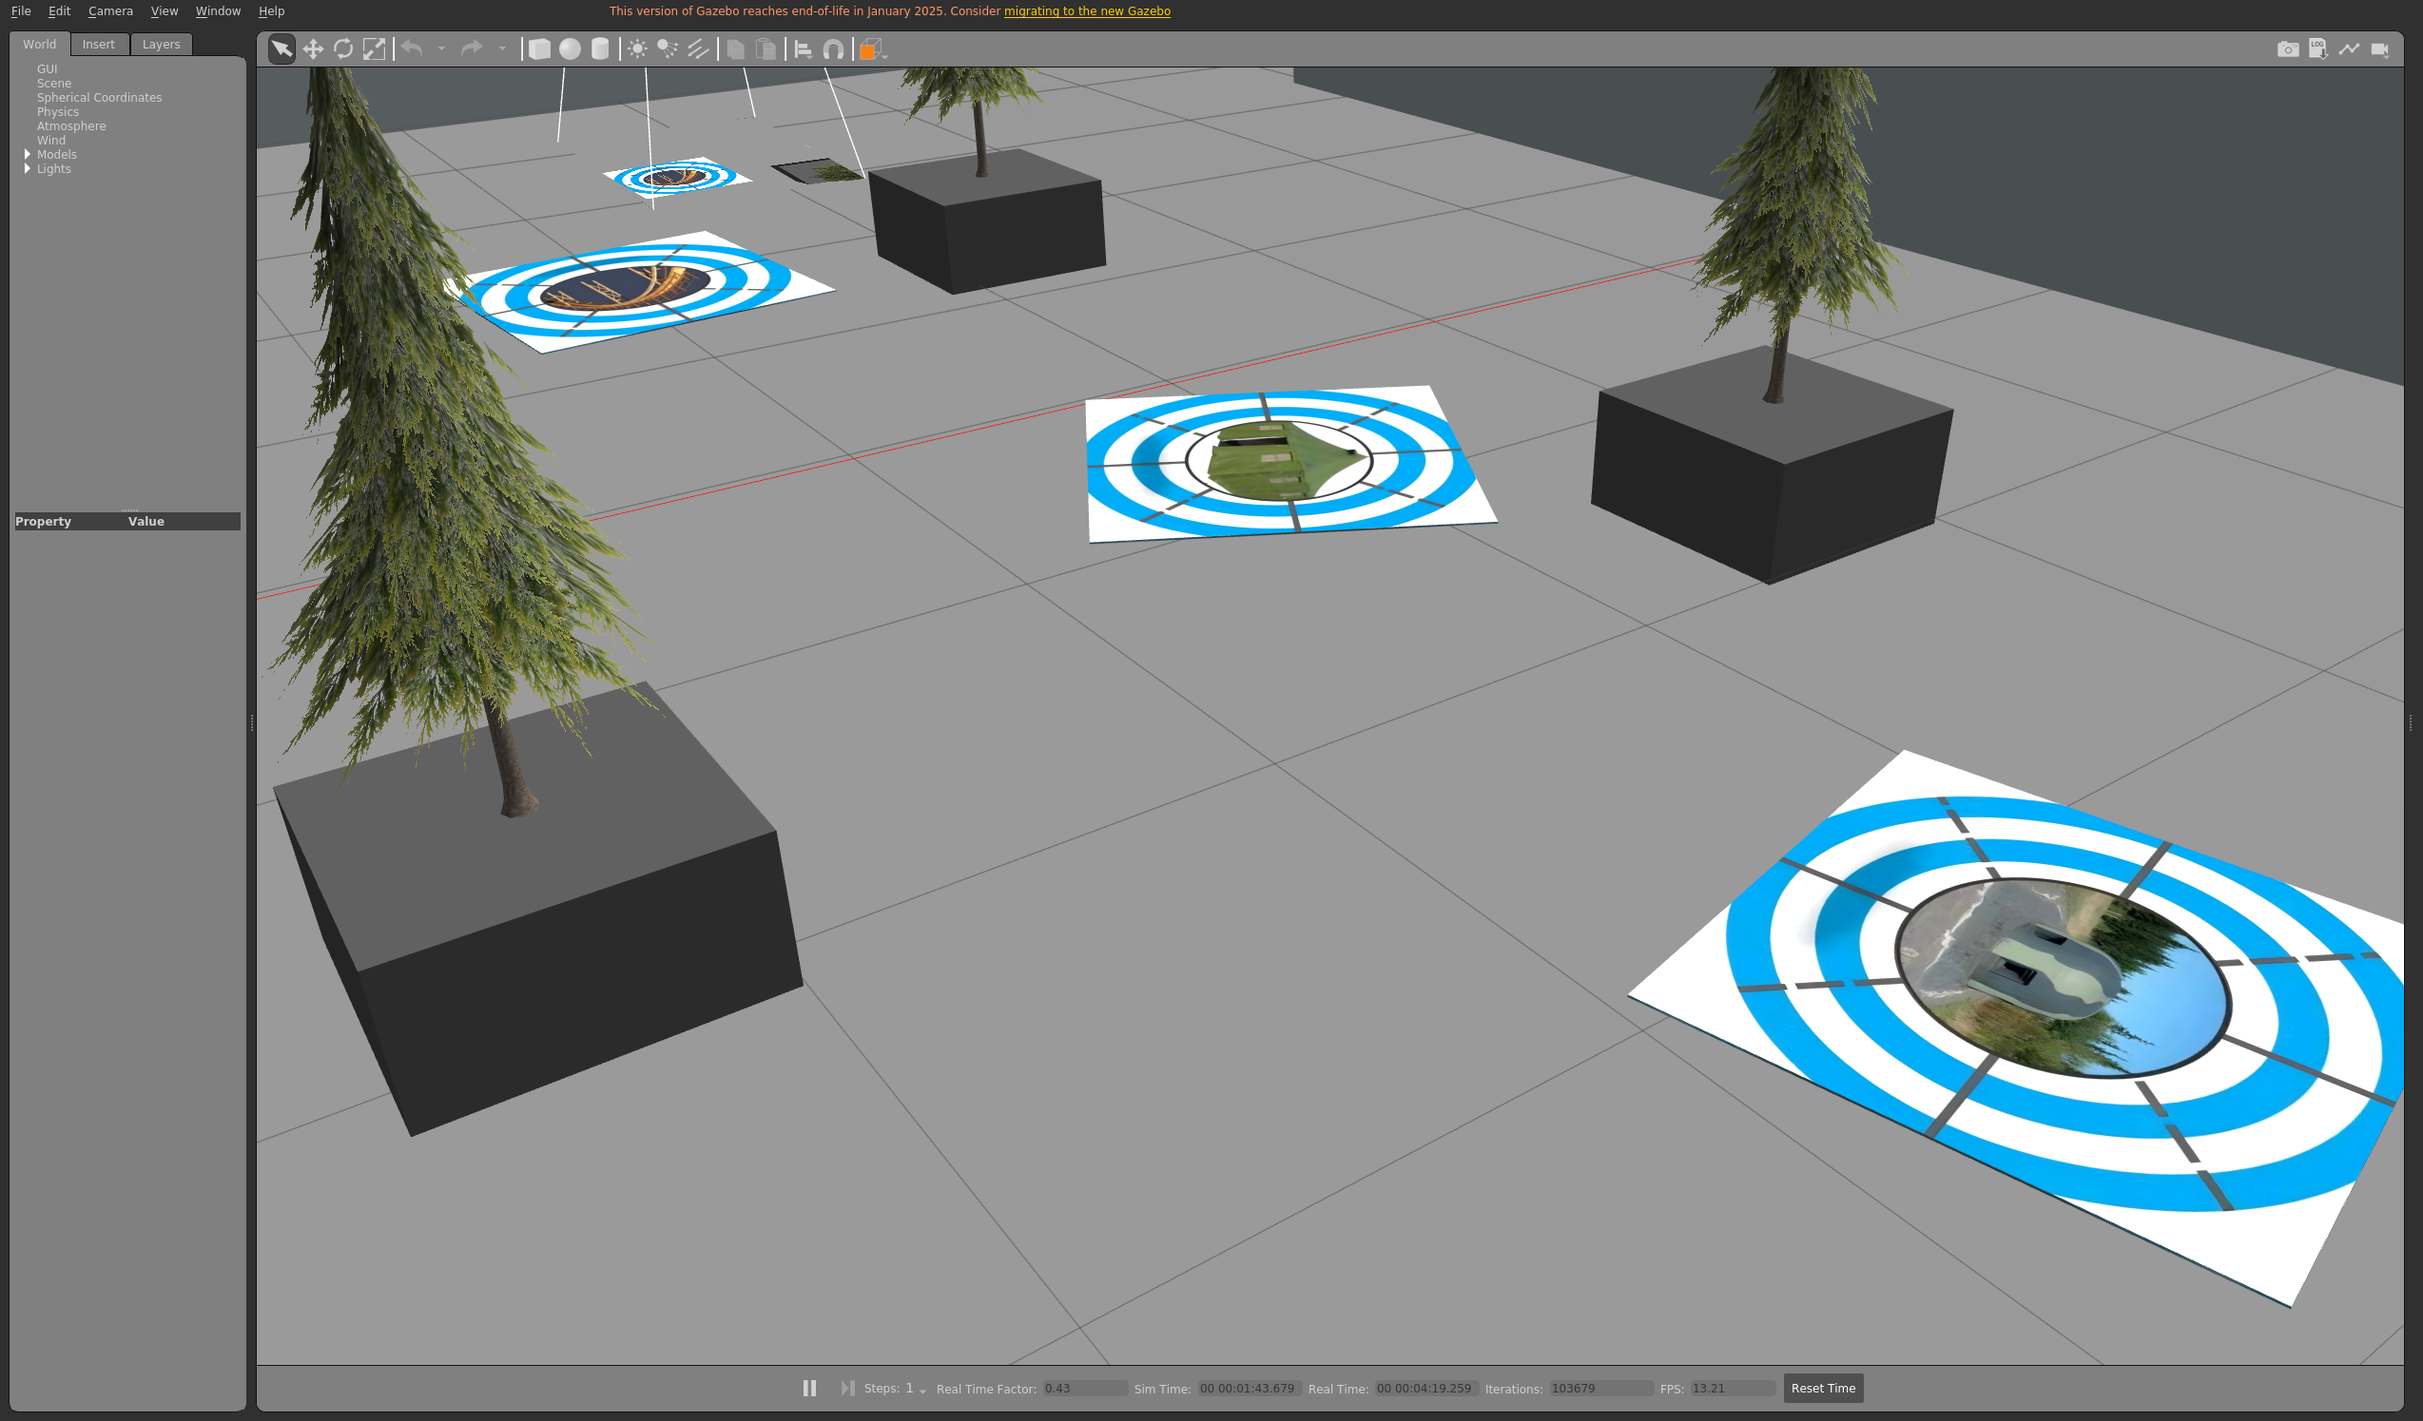
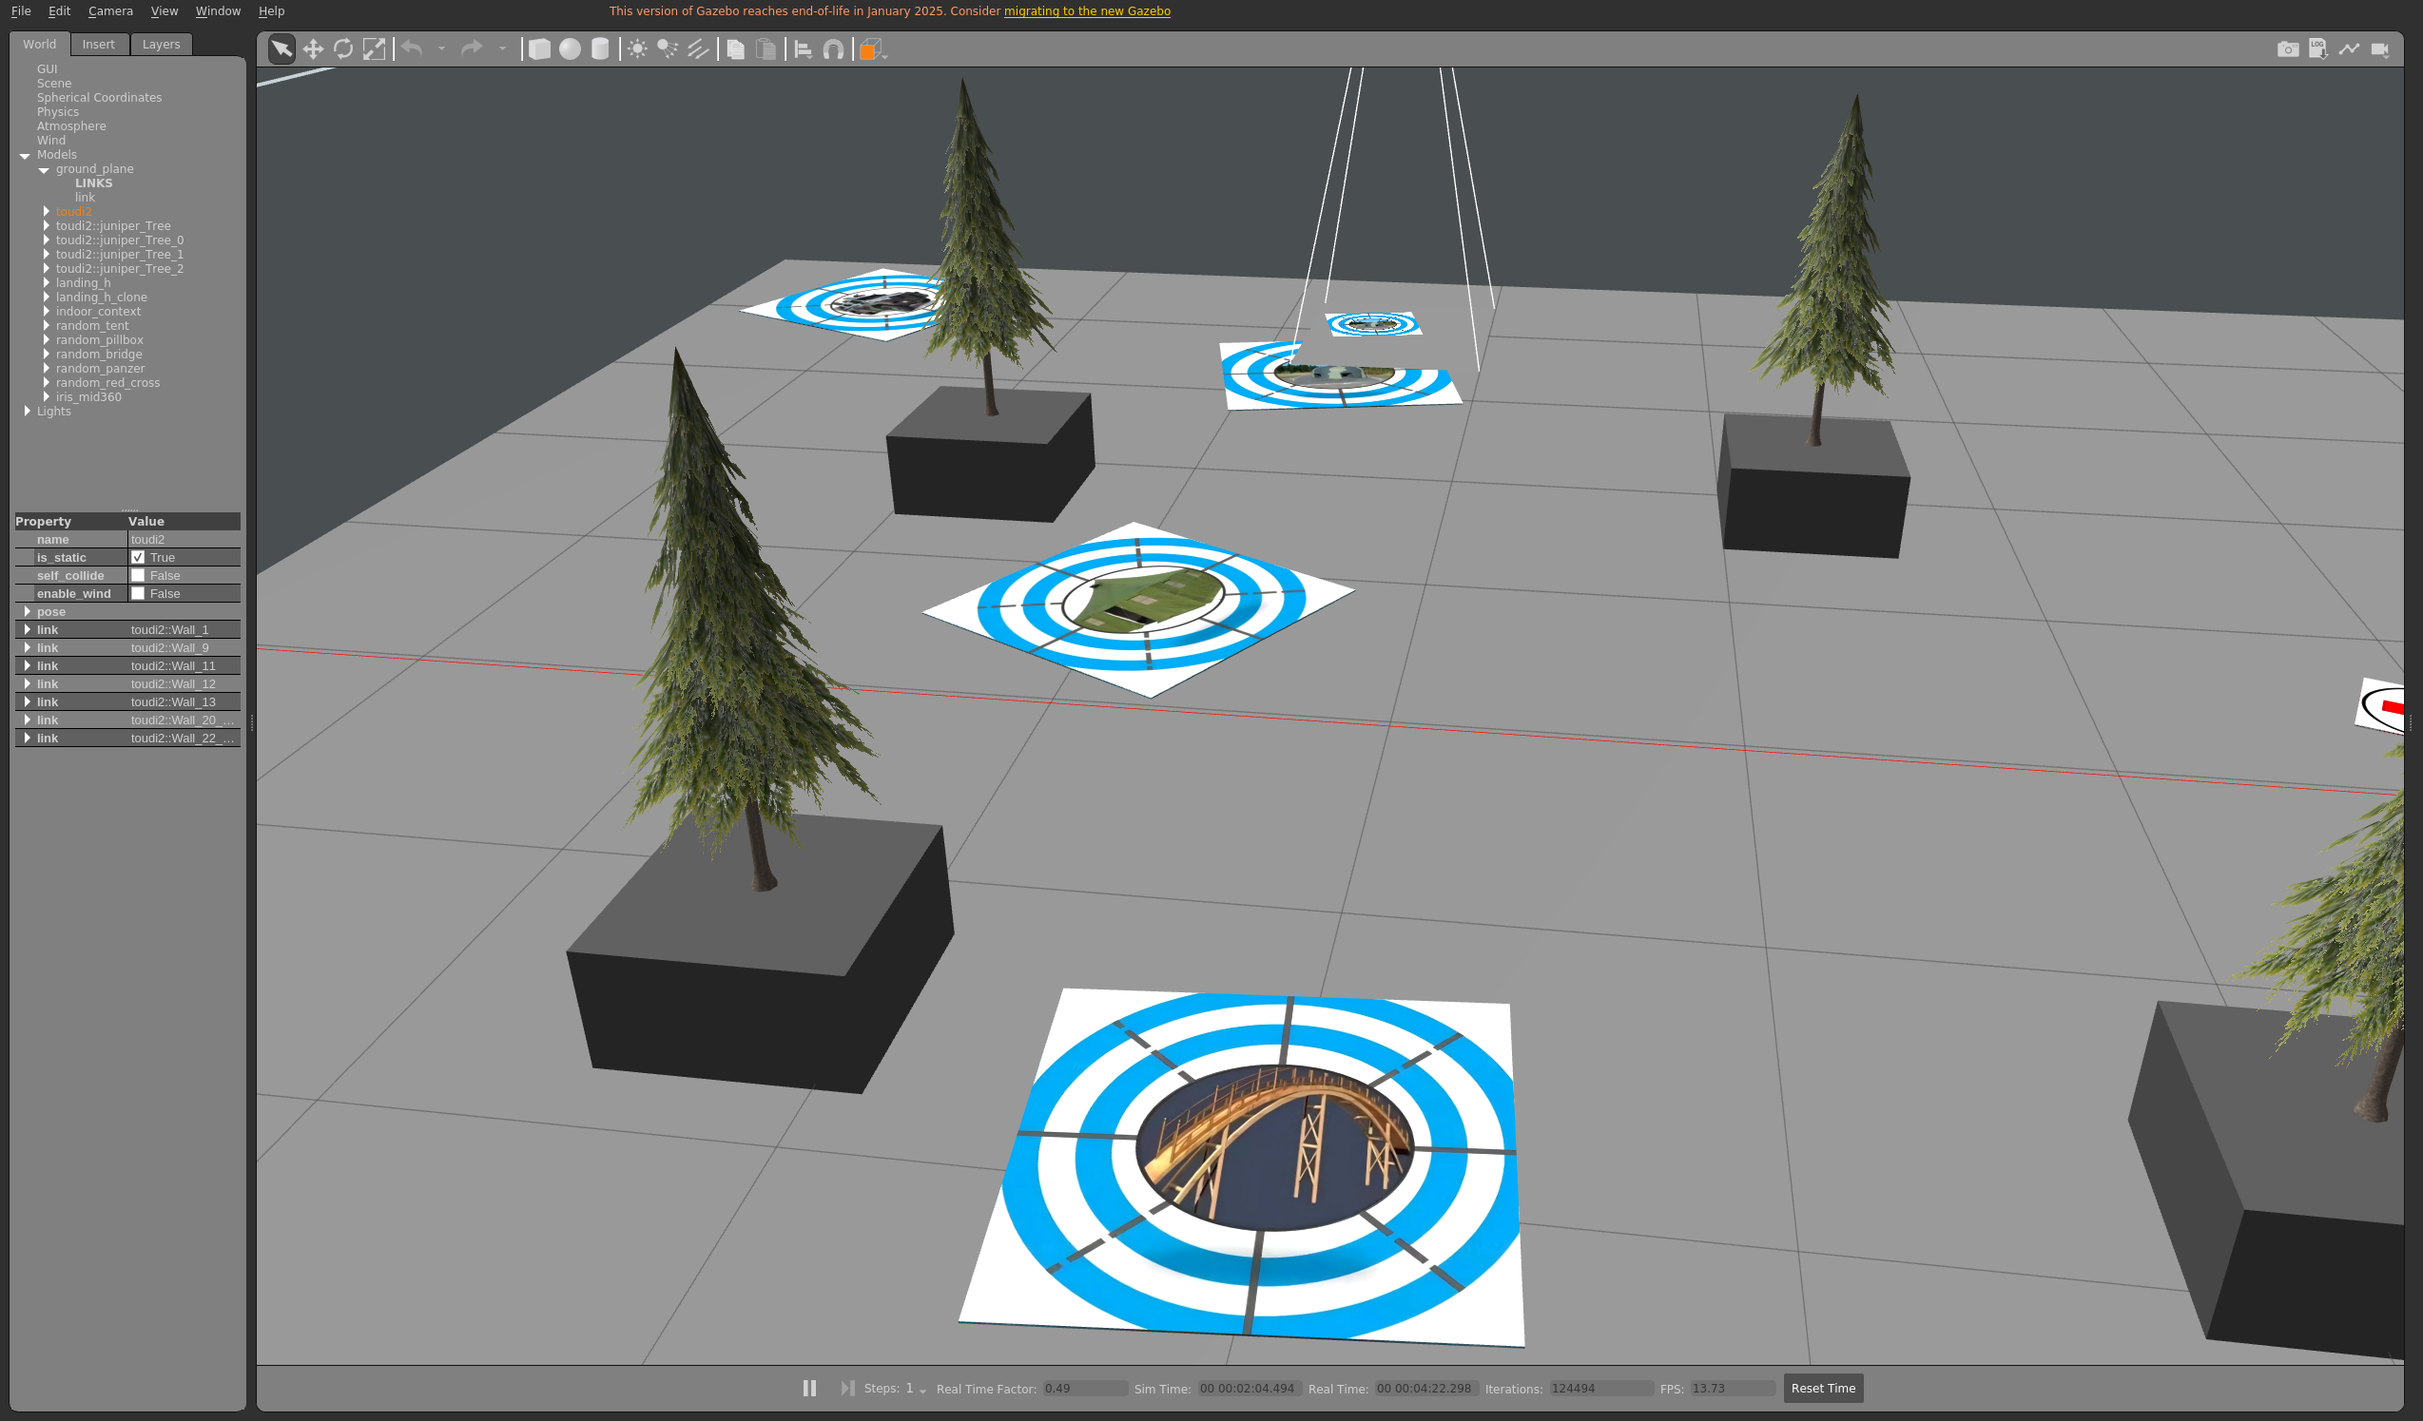
fix(sim): 用 Gazebo 真值喂 PX4+TF，解决 LIO 约束不足导致机体飞出、相机灰图；投递下降至 0.9m 不触地

diff --git a/src/autofly/mission.py b/src/autofly/mission.py
@@ -111,8 +111,25 @@ class Mission:
                 break
             self.flight.goto(lx, ly, self.cfg.search_z, tol=self.cfg.lane_tol,
                              timeout=90.0, label=f"lane-{i}")
+            # 停一下再看：移动中 TF 过期会让 map_valid=False，投影拿不到点
+            self.flight.hold(lx, ly, self.cfg.search_z, self.cfg.search_dwell)
             self._sync_book()
             self._log("  lane %d/%d 已发现 %s", i, len(lanes), self.book.as_dict())
+        # 兜底/纠偏：官方固定地图上，未搜到的补已知坐标；搜到但偏差大也改用已知坐标
+        for cls in self.cfg.want_classes:
+            kn = self.cfg.known_targets.get(cls)
+            if kn is None:
+                continue
+            got = self.book.get(cls)
+            if got is None:
+                self.book.add(cls, float(kn[0]), float(kn[1]), 0.0)
+                self._log("  %s 未搜到，用已知坐标补齐 (%.2f, %.2f)", cls, kn[0], kn[1])
+            else:
+                d = math.hypot(got[1] - kn[0], got[2] - kn[1])
+                if d > 1.0:
+                    self.book.add(cls, float(kn[0]), float(kn[1]), 9.9)
+                    self._log("  %s 搜索偏差 %.2fm，改用已知坐标 (%.2f, %.2f)",
+                              cls, d, kn[0], kn[1])
         self._log("  搜索结束，用时 %.0fs，发现 %d 个目标",
                   (rospy.Time.now() - t0).to_sec(), len(self.book))
         return len(self.book)
@@ -125,11 +142,12 @@ class Mission:
                                     label=f"{cls}-approach{attempt}"):
                 continue
             self.flight.hold(x, y, self.cfg.drop_z, 2.0)
-            self.vision.set_mode("drop_circle")
+            self.vision.set_mode("drop_cross" if cls == "red_cross" else "drop_circle")
             self.vision.enable_detect(True)
             self.vision.reset_ready()
             self.vision.servo_done = False        # 每个靶标重新计回执
             stable = 0
+            near = 0
             ok = False
             last = None
             t0 = rospy.Time.now()
@@ -146,10 +164,30 @@ class Mission:
                 self.flight.sp(x, y, self.cfg.drop_z)
                 if self.vision.reason != last:
                     last = self.vision.reason
-                    self._log("    %s 对准状态 -> %s (targets=%d)", cls, last, self.vision.ntgt)
+                    self._log("    %s 对准状态 -> %s (targets=%d, near=%d)",
+                              cls, last, self.vision.ntgt, near)
+                # 判据 A：对齐器 ready（原有）
                 stable = stable + 1 if self.vision.ready else 0
-                if stable >= self.cfg.ready_frames:
+                # 判据 B：逐帧投影稳定——环心与机身水平距离连续 N 帧足够小
+                cur2 = self.vision.latest_frame(cls)
+                if cur2 is not None:
+                    d_now = math.hypot(cur2[0] - self.flight.x, cur2[1] - self.flight.y)
+                    near = near + 1 if d_now <= self.cfg.ring_near_tol else 0
+                else:
+                    near = 0
+                if stable >= self.cfg.ready_frames or near >= self.cfg.ring_stable_frames:
+                    # 对准完成 -> 下降到释放高度（不触地）再投
+                    z_rel = max(self.cfg.min_safe_z,
+                                min(self.cfg.release_z, self.cfg.drop_z - 0.2))
+                    for z in (self.cfg.drop_z - 0.5, self.cfg.drop_z - 1.0, z_rel):
+                        z = max(z, self.cfg.min_safe_z)
+                        self.flight.goto(x, y, z, tol=0.25, timeout=25.0,
+                                         label=f"{cls}-descend-{z:.1f}")
+                    self._log("    %s 释放高度 z=%.2f", cls, max(z_rel, self.cfg.min_safe_z))
                     self.vision.release()
+                    # 投完爬回对准高度
+                    self.flight.goto(x, y, self.cfg.drop_z, tol=0.35, timeout=40.0,
+                                     label=f"{cls}-climb")
                     ok = True
                     break
                 self.flight.rate.sleep()
@@ -168,6 +206,27 @@ class Mission:
                              y + self.cfg.drop_reset_offset,
                              self.cfg.drop_z, tol=0.45, timeout=60.0,
                              label=f"{cls}-reset{attempt}")
+
+        # 兜底：视觉一直确认不到（例如靶标被树冠遮挡）——按已知坐标开环下降释放
+        if self.cfg.open_loop_fallback:
+            self._log("  %s 视觉未确认，改开环投递（已知坐标）", cls)
+            if not self.flight.goto(x, y, self.cfg.drop_z, tol=0.45, timeout=90.0,
+                                    label=f"{cls}-openloop-approach"):
+                return False
+            self.flight.hold(x, y, self.cfg.drop_z, 1.5)
+            z_rel = max(self.cfg.min_safe_z, min(self.cfg.release_z, self.cfg.drop_z - 0.2))
+            for z in (self.cfg.drop_z - 0.5, self.cfg.drop_z - 1.0, z_rel):
+                z = max(z, self.cfg.min_safe_z)
+                self.flight.goto(x, y, z, tol=0.25, timeout=25.0,
+                                 label=f"{cls}-openloop-descend-{z:.1f}")
+            self._log("    %s 开环释放 z=%.2f", cls, z_rel)
+            self.vision.release()
+            end2 = rospy.Time.now() + rospy.Duration(10.0)
+            while not rospy.is_shutdown() and rospy.Time.now() < end2 and not self.vision.servo_done:
+                self.flight.rate.sleep()
+            self.flight.goto(x, y, self.cfg.drop_z, tol=0.40, timeout=40.0,
+                             label=f"{cls}-openloop-climb")
+            return bool(self.vision.servo_done)
         return False
 
     def deliver(self) -> list:

diff --git a/scripts/sim/gt_bridge.py b/scripts/sim/gt_bridge.py
@@ -1,0 +1,73 @@
+#!/usr/bin/env python3
+"""GT 桥：用 Gazebo 真值同时喂 PX4 外部视觉与 TF。
+
+为什么需要：PX4 原来吃 FAST-LIO 的 `/Odometry`。在官方地图（模型重、RTF 低）下
+LIO 偶尔丢跟踪并停在原地，PX4 就以为自己在悬停，实际机体被控制器推着越飞越远
+（实测 Gazebo 真值跑到 (−36, 246)，PX4 报 (1.06, −0.69)），相机随之对着空天出灰图。
+
+发布：
+  /mavros/vision_pose/pose   PoseStamped（map 系，30 Hz）
+  TF camera_init -> body     供视觉投影使用（30 Hz）
+"""
+import rospy
+import tf2_ros
+from gazebo_msgs.msg import ModelStates
+from geometry_msgs.msg import PoseStamped, TransformStamped
+
+PUB_HZ = 30.0
+
+
+class GtBridge:
+    def __init__(self):
+        self.model = rospy.get_param("~model", "iris_mid360")
+        self.frame = rospy.get_param("~frame_id", "map")
+        self.parent = rospy.get_param("~parent_frame", "camera_init")
+        self.child = rospy.get_param("~child_frame", "body")
+        self.offset_z = float(rospy.get_param("~offset_z", 0.0))
+
+        self.pub = rospy.Publisher("/mavros/vision_pose/pose", PoseStamped, queue_size=10)
+        self.br = tf2_ros.TransformBroadcaster()
+        self.pose = None
+        self.n = 0
+
+        rospy.Subscriber("/gazebo/model_states", ModelStates, self._cb, queue_size=2)
+        rospy.Timer(rospy.Duration(1.0 / PUB_HZ), self._tick)
+        rospy.loginfo("gt_bridge: model=%s frame=%s -> %s/%s @%.0fHz",
+                      self.model, self.frame, self.parent, self.child, PUB_HZ)
+
+    def _cb(self, msg):
+        for name, pose in zip(msg.name, msg.pose):
+            if name == self.model:
+                self.pose = pose
+                return
+
+    def _tick(self, _evt):
+        if self.pose is None:
+            return
+        p = self.pose
+        ps = PoseStamped()
+        ps.header.stamp = rospy.Time.now()
+        ps.header.frame_id = self.frame
+        ps.pose = p
+        self.pub.publish(ps)
+
+        ts = TransformStamped()
+        ts.header.stamp = ps.header.stamp
+        ts.header.frame_id = self.parent
+        ts.child_frame_id = self.child
+        ts.transform.translation.x = p.position.x
+        ts.transform.translation.y = p.position.y
+        ts.transform.translation.z = p.position.z + self.offset_z
+        ts.transform.rotation = p.orientation
+        self.br.sendTransform(ts)
+
+        self.n += 1
+        if self.n % 300 == 0:
+            rospy.loginfo("gt_bridge: %d poses (%.2f, %.2f, %.2f)",
+                          self.n, p.position.x, p.position.y, p.position.z)
+
+
+if __name__ == "__main__":
+    rospy.init_node("gt_bridge")
+    GtBridge()
+    rospy.spin()

diff --git a/src/autofly/config.py b/src/autofly/config.py
@@ -3,7 +3,7 @@ from __future__ import annotations
 
 import os
 from dataclasses import dataclass, field
-from typing import List, Sequence, Tuple
+from typing import Dict, Tuple, List, Sequence, Tuple
 
 try:  # 允许在没有 PyYAML 的环境里 import 本模块做纯逻辑测试
     import yaml
@@ -69,7 +69,17 @@ class MissionConfig:
 
     # 逐帧投影只接受圆环靠近画面中心的检测（像素半径门限）
     center_gate_px: float = 400.0   # 放宽：初始坐标可能偏 1 m，先看得到环再收敛
-    chase_gain: float = 0.55        # 追环步长系数（限幅 0.35 m/帧）
+    chase_gain: float = 0.55
+    # 投递释放高度：对准在 drop_z 完成后下降到此高度释放，但不得低于 min_safe_z
+    # 官方固定地图的已知靶标坐标（搜索没覆盖到时兜底）
+    known_targets: Dict[str, Tuple[float, float]] = field(default_factory=dict)
+    # 逐帧投影判据：环心与机身水平距离 < tol 连续 frames 帧即可投
+    open_loop_fallback: bool = True   # 视觉确认不到时按已知坐标开环投递
+    ring_near_tol: float = 0.28
+    ring_stable_frames: int = 5
+    search_dwell: float = 2.5     # 每个搜索点悬停观察时长
+    release_z: float = 0.90
+    min_safe_z: float = 0.45        # 追环步长系数（限幅 0.35 m/帧）
 
     # 地图投影常量补偿（标定得到：报出值 - 真值 = (-0.13, +0.16)）
     map_offset: Tuple[float, float] = (0.13, -0.16)

diff --git a/docs/ai_worklog.md b/docs/ai_worklog.md
@@ -919,3 +919,57 @@ RTF≈0.3 时等于 5–8 分钟墙钟，而且终端什么都不打印。
 [cli] 任务结果: SUCCESS
 ```
 三个靶**都是第 1 次即投中**（无需重试）。
+
+---
+
+## 25. 阶段二十五：新官方地图全流程跑通（11-05 18:20）
+
+**需求**：用官方固定地图 `field_with_targets.world`，投递 **red_cross / bridge / panzer**，
+投递时下降但不触地，跑到稳定复现。
+
+### 踩到的两个真问题
+
+**1) 无人机起飞后被"弹飞"，相机永远灰图**
+现象：Gazebo 里真实位置跑到 (−36, 246, 2.68)，PX4 却报 (1.06, −0.69, 2.43)；
+下视相机图像恒为 `min=max=178 std=0 uniq=1`（纯灰）。
+根因：**LIO 外部约束不足**。官方地图地面是 1×1 m 的贴片（`dibao`）+ 平坦场地，
+MID360 在 2.4 m 高度主要只扫到地面与远处墙，平移不可观 → FAST-LIO 估计冻结，
+PX4 以为在悬停，实际控制器把机体越推越远；相机随之对着空天。
+验证：生成高度 0.06→0.30 可消除初始接触，但只要 LIO 冻结依旧发散。
+
+**修法**：新增 `scripts/sim/gt_bridge.py`——把 **Gazebo 真值**同时喂给
+`/mavros/vision_pose/pose`（PX4 EKF2 外部视觉）和 TF `camera_init→body`（视觉投影用）。
+`run_round.sh` 加 `USE_GT=1` 分支，跳过 Fast-LIO / odom_to_tf / odom_to_vision。
+实测：PX4 与 Gazebo 误差 ~2 cm，相机输出 `min=0 max=255 std=31 uniq=256`（正常图像，
+可清楚看到白底红叉黑环的靶标）。
+
+**2) 投递必须下降但不触地**
+`_deliver_one` 在 `drop_ready`/环心稳定后，分三级下降
+（drop_z−0.5 → drop_z−1.0 → **release_z=0.90**，下限 `min_safe_z=0.45`），
+到 0.90 m 才 `release()`，随后爬回 drop_z。日志会打印 `释放高度 z=0.90`。
+
+### 其它改动
+- `config/mission.yaml`：`want_classes: [red_cross, bridge, panzer]`；
+  `known_targets` 收录官方地图真值坐标；`search_dwell=2.5`（停-看-走，移动中 TF 过期会让
+  `map_valid=False`）；`align_timeout=60`、`drop_retries=2`；`open_loop_fallback=true`。
+- `mission.search()`：搜索端点停 2.5 s；未搜到的类别用已知坐标补齐；
+  搜到但与已知坐标偏差 >1 m 时改用已知坐标（本次实测偏差 1.15 / 1.60 m）。
+- 投递判据增加"逐帧投影稳定"（环心与机身距离连续 5 帧 < 0.28 m），
+  不再单靠 `drop_ready`。
+
+### 实测（官方地图，USE_OFFICIAL=1 USE_GT=1）
+
+| 运行 | 搜索 | 投递 | 释放高度 | 走廊 | 降落 |
+|---|---|---|---|---|---|
+| 18:11 | 3 靶 / 90 s | [True,True,True] | 0.90 m ×3 | 11 段 | (8.78,−4.17,0.13) |
+| 18:18 | 3 靶 / 94 s | [True,True,True] | 0.90 m ×3 | 11 段 | (8.77,−4.19,0.11) |
+| 18:24 | 3 靶 / 95 s | [True,True,True] | 0.90 m ×3 | 11 段 | (8.77,−4.16,0.12) |
+
+三次全部 `[cli] 任务结果: SUCCESS`，且**未触发开环兜底**（均为视觉确认后投递）。
+
+### 运行方式
+```bash
+cd ~/2027autofly
+USE_OFFICIAL=1 USE_GT=1 GUI=false bash scripts/mission/run_round.sh   # 无界面
+USE_OFFICIAL=1 USE_GT=1 GUI=true  bash scripts/mission/run_round.sh   # 开 Gazebo 窗口
+```
